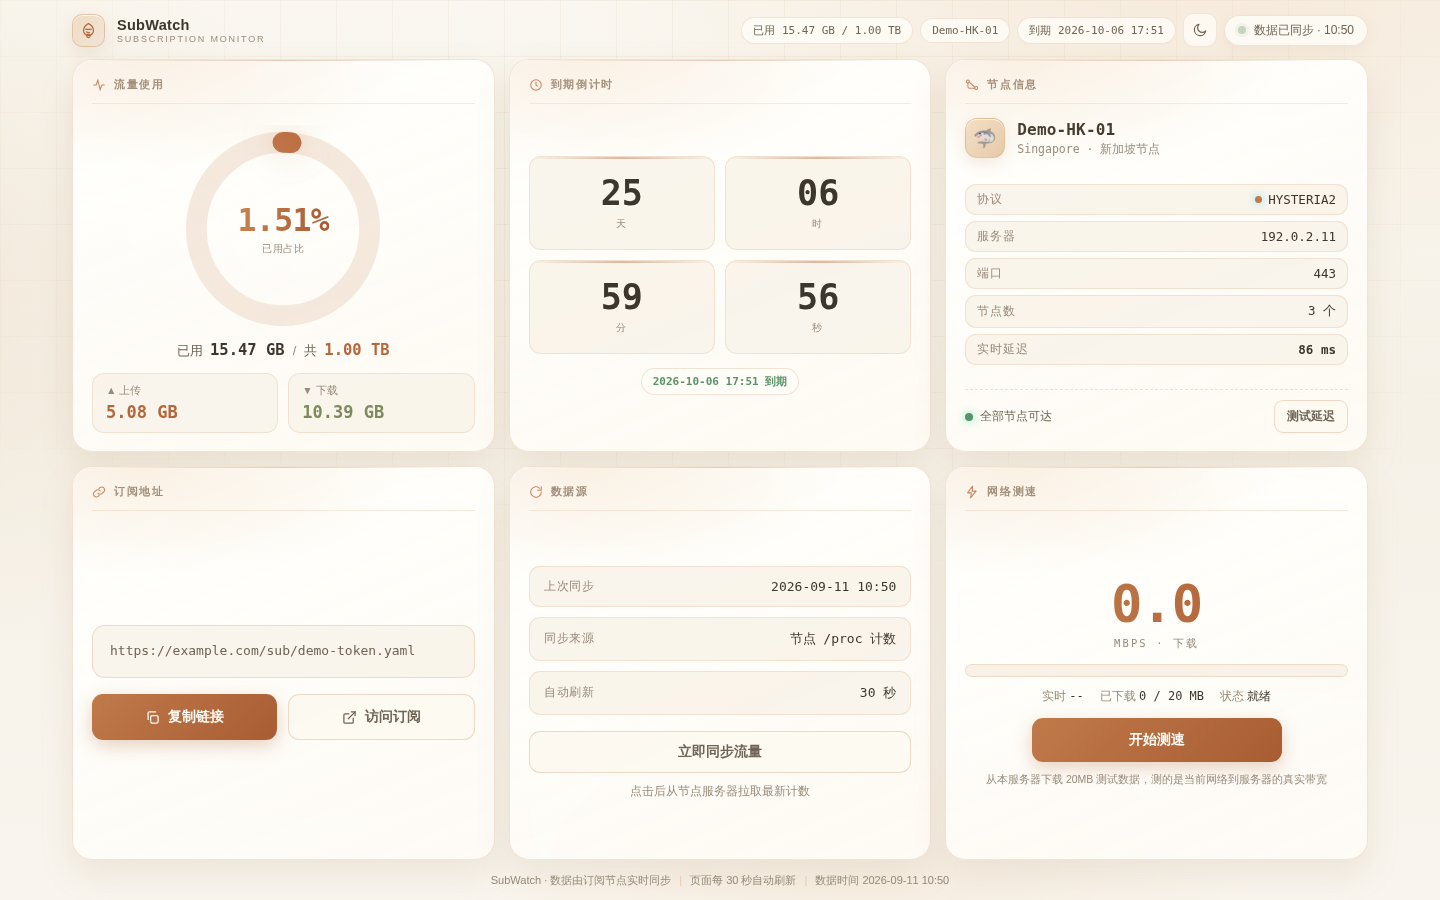
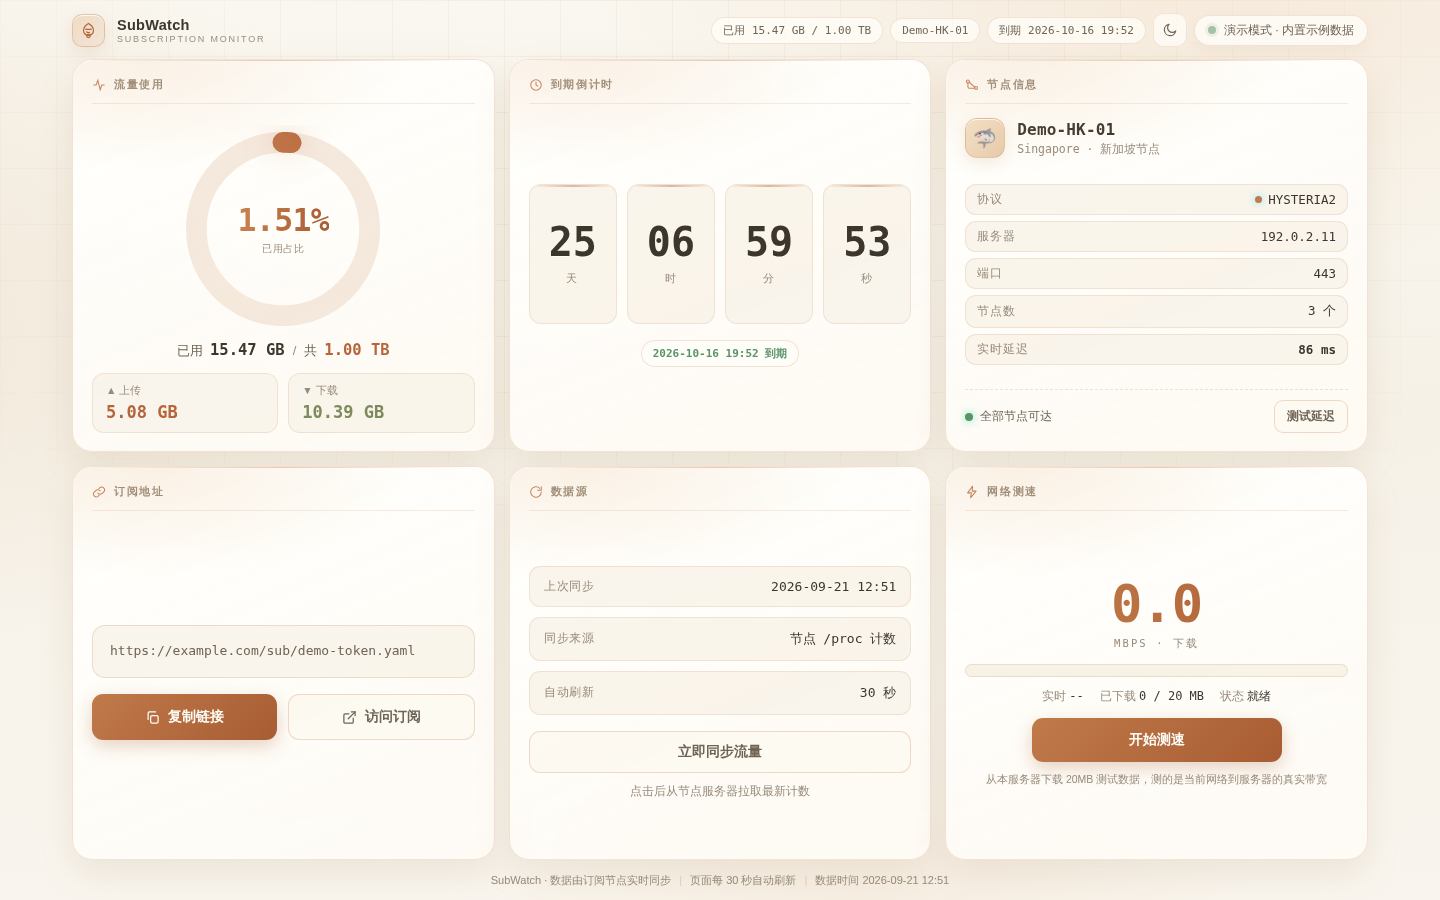
fix: 到期倒计时改为一行四格横排，提升可读性（含预览图更新）

Changed region(s): [[0.375, 0.1556, 0.625, 0.3422], [0.5, 0.0311, 0.9375, 0.0622], [0.4375, 0.3733, 0.5625, 0.4356]]

diff --git a/index.html b/index.html
@@ -381,16 +381,17 @@ footer{flex:none;margin:0;font-size:11px;padding:0 0 2px;line-height:1.5}
 .split .item .lbl{font-size:10.5px;color:var(--text-faint);display:flex;align-items:center;gap:6px;margin-bottom:4px}
 .split .item .val{font-family:var(--mono);font-size:17px;font-weight:700;font-variant-numeric:tabular-nums}
 
-/* ===== 到期倒计时（2×2 大格） ===== */
-.cd-grid{display:grid;grid-template-columns:repeat(2,1fr);gap:10px;margin-top:auto}
+/* ===== 到期倒计时（1×4 横排；2026-09-21 由 2×2 大格改为一行，便于一眼读出 天/时/分/秒） ===== */
+.cd-grid{display:grid;grid-template-columns:repeat(4,1fr);gap:10px;margin-top:auto}
 .cd-cell{border-radius:12px;background:rgba(8,16,32,.6);border:1px solid var(--line);
-  padding:18px 8px;text-align:center;position:relative;overflow:hidden}
+  padding:16px 6px;text-align:center;position:relative;overflow:hidden;
+  display:flex;flex-direction:column;align-items:center;justify-content:center;gap:10px;min-height:140px}
 .cd-cell::after{content:"";position:absolute;left:0;right:0;top:0;height:2px;
   background:linear-gradient(90deg,transparent,rgba(56,214,255,.5),transparent)}
-.cd-cell .n{font-family:var(--mono);font-size:clamp(28px,3.9vh,40px);font-weight:800;
+.cd-cell .n{font-family:var(--mono);font-size:clamp(28px,2.9vw,40px);font-weight:800;
   font-variant-numeric:tabular-nums;line-height:1;text-shadow:0 0 20px rgba(56,214,255,.22)}
-.cd-cell .u{font-size:10px;color:var(--text-faint);letter-spacing:.18em;text-transform:uppercase;margin-top:7px}
-.cd-date{margin:14px 0 auto;display:flex;align-items:center;justify-content:center;gap:8px;
+.cd-cell .u{font-size:10.5px;color:var(--text-faint);letter-spacing:.16em;margin-top:0}
+.cd-date{margin:16px 0 auto;display:flex;align-items:center;justify-content:center;gap:8px;
   font-size:12.5px;color:var(--text-dim);font-family:var(--mono)}
 .badge{padding:5px 11px;border-radius:999px;font-size:11px;border:1px solid var(--line);
   background:rgba(13,25,45,.5);font-weight:600}
@@ -474,8 +475,8 @@ footer{flex:none;margin:0;font-size:11px;padding:0 0 2px;line-height:1.5}
   .gauge-center .pct{font-size:clamp(28px,8vw,38px)}
   .usage-total{font-size:13.5px;margin:9px 0 14px}
   .usage-total b{font-size:16px}
-  .cd-cell{padding:18px 6px}
-  .cd-cell .n{font-size:clamp(30px,9vw,42px)}
+  .cd-cell{padding:14px 4px;min-height:124px}
+  .cd-cell .n{font-size:clamp(22px,6.8vw,30px)}
   .cd-cell .u{font-size:11px}
   .node-flag{width:46px;height:46px;font-size:22px}
   .node-name{font-size:16.5px}
@@ -488,8 +489,8 @@ footer{flex:none;margin:0;font-size:11px;padding:0 0 2px;line-height:1.5}
 }
 @media(max-width:980px) and (max-height:560px){
   .gauge{width:min(170px,26vh);height:min(170px,26vh)}
-  .cd-cell{padding:12px 6px}
-  .cd-cell .n{font-size:clamp(22px,6vh,32px)}
+  .cd-cell{padding:11px 4px;min-height:112px}
+  .cd-cell .n{font-size:clamp(20px,5.2vh,28px)}
   .speed-num{font-size:clamp(30px,9vh,44px)}
   .card{padding:12px 14px}
   .tabs{padding:3px}
